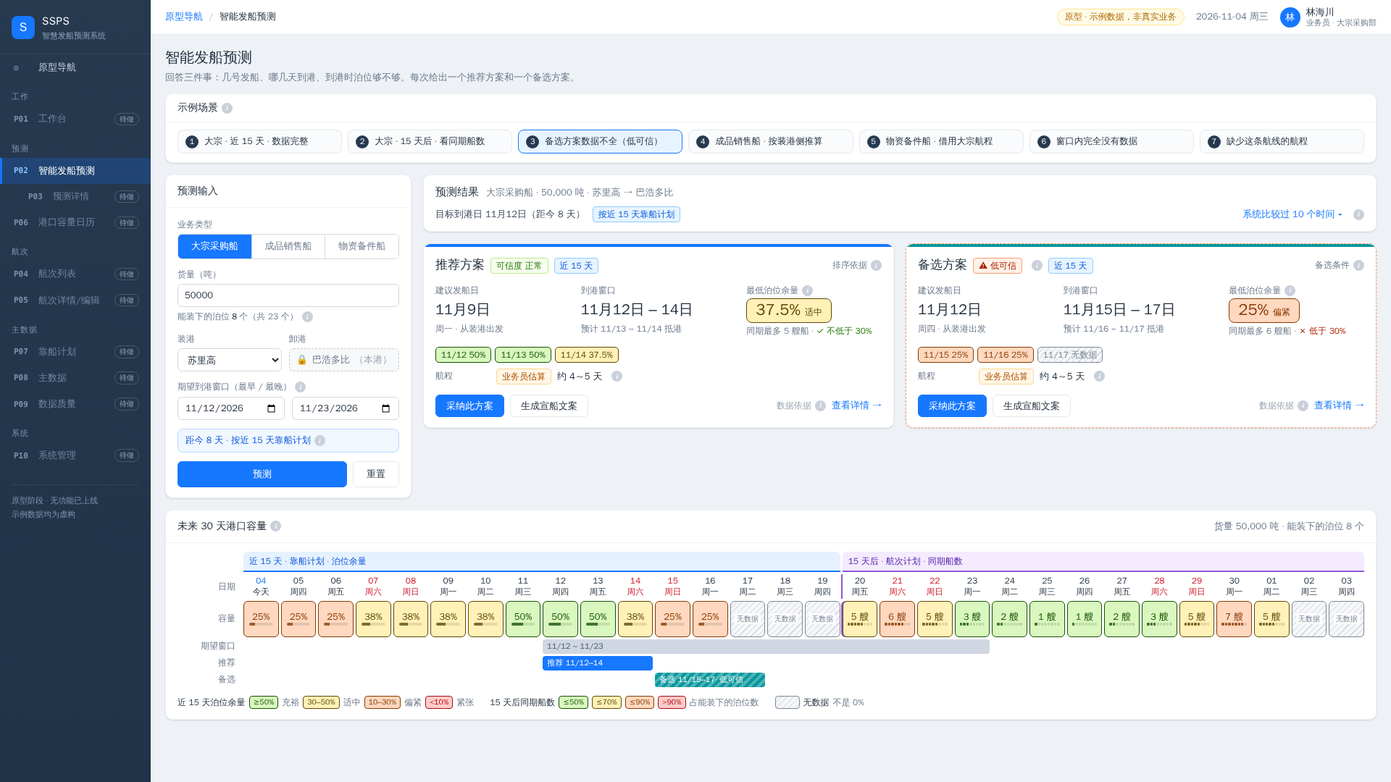
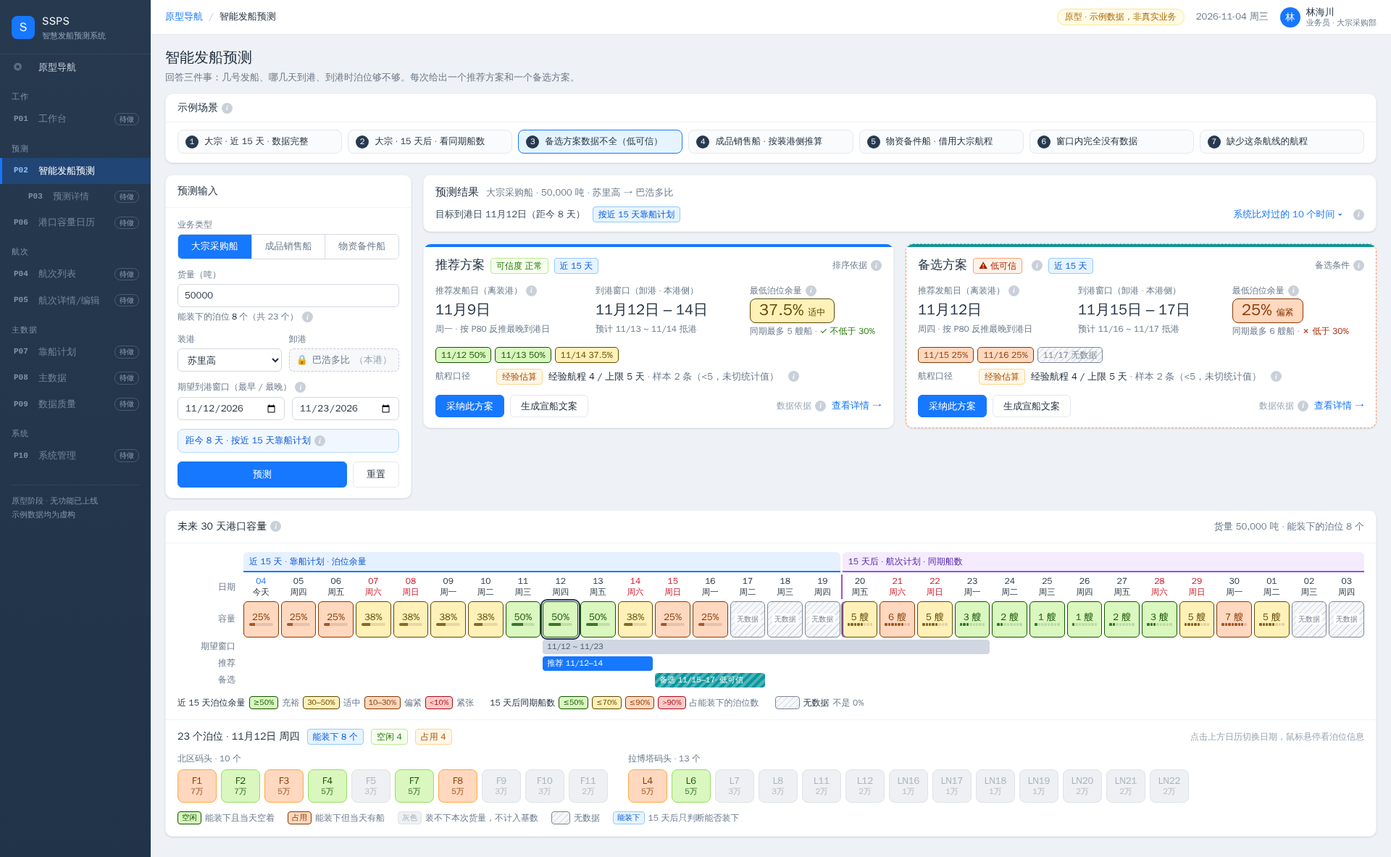
feat(prototype): P02 第一版迭代：恢复关键措辞、经验估算、23 泊位一览
- 「业务员估算」改为「经验估算」
- 恢复原措辞：推荐发船日（离装港）（旁加注释）、到港窗口（卸港 · 本港侧）、按 P80 反推最晚到港日、
  经验航程 / 上限 · 样本（<5，未切统计值）、系统比对过的 N 个时间及候选窗口标题
- 日历下方新增 23 个泊位一览：能装下本次货量的按空闲/占用着色，装不下的灰色，15 天后只判断能否装下，
  无数据为斜线；悬停显示泊位数据与当日占用船；点击日历切换日期
- 在 1920 / 1440 宽度下复查七个场景无折行溢出

Claude-Session: https://claude.ai/code/session_01S7EgPzREeeBA8rsxhMLUP6

diff --git a/prototype/P02-prediction.html b/prototype/P02-prediction.html
@@ -35,13 +35,14 @@
 .sum-m{display:flex;align-items:center;gap:10px;margin-top:8px;flex-wrap:wrap;color:#3b4a5c}
 .sum-m .sp{flex:1}
 .cands{display:flex;flex-wrap:wrap;gap:6px;margin-top:10px;padding-top:10px;border-top:1px dashed var(--line);font-size:12px}
+.cands .ct{width:100%;color:var(--muted);font-size:12.5px;white-space:nowrap}
 .cand{display:inline-flex;gap:5px;align-items:center;border:1px solid;border-radius:6px;padding:1px 8px;line-height:20px;white-space:nowrap}
 .cand i{font-style:normal;font-weight:600;color:#fff;background:var(--primary);border-radius:3px;padding:0 5px;font-size:11px}
 .cand i.b{background:#08979c}
 .cand.sp{border-style:dashed}
 .link{border:0;background:none;color:var(--primary);cursor:pointer;padding:0;font-size:13px;white-space:nowrap}
 /* 方案卡片 */
-.plans{display:grid;grid-template-columns:repeat(auto-fit,minmax(520px,1fr));gap:16px;margin-top:16px}
+.plans{display:grid;grid-template-columns:repeat(auto-fit,minmax(580px,1fr));gap:16px;margin-top:16px}
 .plan{position:relative;overflow:hidden;min-width:0}
 .plan:before{content:"";position:absolute;left:0;right:0;top:0;height:4px;background:var(--primary)}
 .plan.B:before{background:#08979c}
@@ -51,7 +52,7 @@
 .plan-h h3{margin:0;font-size:17px}
 .plan-h .sp{flex:1}
 .plan-h .muted{font-size:12px;display:flex;align-items:center}
-.mgrid{display:grid;grid-template-columns:1fr 1.15fr 1fr;gap:14px;padding:8px 16px 4px}
+.mgrid{display:grid;grid-template-columns:1.25fr 1.2fr 1.1fr;gap:14px;padding:8px 16px 4px}
 .m{min-width:0}
 .m .lb{font-size:12px;color:var(--muted);display:flex;align-items:center;white-space:nowrap}
 .m .v{font-size:20px;font-weight:700;margin:2px 0;white-space:nowrap}
@@ -61,7 +62,7 @@
 .days{display:flex;flex-wrap:wrap;gap:5px;padding:8px 16px 0}
 .day{border:1px solid;border-radius:5px;padding:0 7px;font-size:12px;line-height:20px;white-space:nowrap}
 .kvs{padding:8px 16px 0;display:grid;gap:6px;font-size:13px}
-.kvs .r{display:flex;gap:8px;align-items:center;white-space:nowrap}
+.kvs .r{display:flex;gap:4px 8px;align-items:center;white-space:nowrap;flex-wrap:wrap}
 .kvs .k{color:var(--muted);font-size:12px;width:76px;flex:none}
 .plan-f{display:flex;gap:8px;padding:14px 16px 14px;align-items:center;white-space:nowrap}
 .plan-f .sp{flex:1}
@@ -84,7 +85,8 @@
 .cal .dh b{display:block;font-size:12px}
 .cal .dh.today b{color:var(--primary)}.cal .dh.wkend{color:#cf1322}
 .cal .dh.split,.cal .cell.split{box-shadow:-2px 0 0 #9254de}
-.cell{height:50px;border:1px solid;border-radius:6px;display:flex;flex-direction:column;align-items:center;justify-content:center;gap:2px;font-size:12px;position:relative;cursor:default;white-space:nowrap;overflow:hidden}
+.cell{height:50px;border:1px solid;border-radius:6px;display:flex;flex-direction:column;align-items:center;justify-content:center;gap:2px;font-size:12px;position:relative;cursor:pointer;white-space:nowrap;overflow:hidden}
+.cell.sel{outline:2.5px solid #26394f;outline-offset:1px;z-index:3}
 .cell b{font-size:13px;line-height:1}
 .cell .bar{display:block;width:70%;height:4px;border-radius:3px;background:rgba(0,0,0,.1);overflow:hidden}
 .cell .bar i{display:block;height:100%;background:currentColor;opacity:.75}
@@ -98,7 +100,27 @@
 .legend{display:flex;flex-wrap:wrap;gap:6px 22px;align-items:center;padding:8px 16px 14px;font-size:12px;color:var(--muted)}
 .legend .g{display:flex;align-items:center;gap:5px;white-space:nowrap}
 .sw{display:inline-block;min-width:34px;padding:0 5px;text-align:center;border:1px solid;border-radius:4px;font-size:10.5px;line-height:16px;white-space:nowrap}
-@media(max-width:1700px){.cell.nd i{font-size:9px;padding:0 1px}.cell{font-size:11px}.mk .lt{display:none}}
+@media(max-width:1700px){.bt{width:50px}.cell.nd i{font-size:9px;padding:0 1px}.cell{font-size:11px}.mk .lt{display:none}}
+/* 泊位一览 */
+.bm{border-top:1px solid var(--line-2);padding:12px 16px 16px}
+.bm-h{display:flex;align-items:center;gap:10px;flex-wrap:wrap;margin-bottom:10px}
+.bm-h b{font-size:14px;white-space:nowrap}
+.bm-h .sp{flex:1}
+.bm-h .faint{font-size:12px;white-space:nowrap}
+.bm-g{display:flex;flex-wrap:wrap;gap:14px 28px}
+.bm-t{font-size:12px;color:var(--muted);margin-bottom:5px;white-space:nowrap}
+.bm-r{display:flex;gap:6px}
+.bt{width:54px;height:46px;border:1px solid;border-radius:8px;display:flex;flex-direction:column;align-items:center;justify-content:center;line-height:1.25;cursor:help;flex:none;white-space:nowrap}
+.bt b{font-size:13px}.bt small{font-size:11px;opacity:.85}
+.bt.free{background:var(--c1-bg);color:var(--c1-fg);border-color:var(--c1-bd)}
+.bt.occ{background:var(--c3-bg);color:var(--c3-fg);border-color:var(--c3-bd)}
+.bt.cap{background:#e6f4ff;color:#0958d9;border-color:#91caff}
+.bt.nd{background:var(--stripe);color:#5b6878;border-color:#c4cad3}
+.bt.off{background:#eef0f3;color:#a7b0bc;border-color:#dfe3e8}
+.bt:hover{outline:2px solid var(--primary);z-index:2}
+.bm-l{display:flex;flex-wrap:wrap;gap:6px 18px;margin-top:12px;font-size:12px;color:var(--muted)}
+.bm-l .g{display:flex;align-items:center;gap:5px;white-space:nowrap}
+.bm-l .sw{min-width:26px}
 /* 弹窗 */
 .annc{background:#f7f9fc;border:1px solid var(--line);border-radius:8px;padding:12px 14px;line-height:2;font-size:13.5px}
 .annc .v{background:#e6f4ff;color:#0958d9;border-radius:3px;padding:0 3px;font-weight:600}
@@ -150,6 +172,7 @@
         <div class="card-h"><h2 class="nw">未来 30 天港口容量<span class="i" data-tip="泊位余量率是唯一的容量指标：空闲泊位 ÷ 能装下该货量的泊位总数，越高越宽松。\n30% 是备选方案的底线；其余色阶分界为原型暂定值。\n灰色斜线表示暂无数据，不是 0%。">i</span></h2><span class="muted nw" id="calMeta"></span></div>
         <div class="cal" id="cal"></div>
         <div class="legend" id="legend"></div>
+        <div class="bm" id="bm"></div>
       </section>
     </main>
   </div>
@@ -180,7 +203,7 @@
   const M = window.MOCK, E = window.ENGINE, $ = (id) => document.getElementById(id);
   const BIZ = ['大宗采购船', '成品销售船', '物资备件船'], LOCAL = 'BAHODOPI';
   const PRESETS = [
-    { label: '大宗 · 近 15 天 · 数据完整', tip: '5 万吨，业务员估算航程，推荐和备选都数据完整。',
+    { label: '大宗 · 近 15 天 · 数据完整', tip: '5 万吨，航程为经验估算，推荐和备选都数据完整。',
       v: { biz: '大宗采购船', tons: 50000, load: 'SURIGAO', disch: LOCAL, ws: '2026-11-08', we: '2026-11-18' } },
     { label: '大宗 · 15 天后 · 看同期船数', tip: '5 万吨，历史统计航程，只按同期船数判断，不算泊位余量。',
       v: { biz: '大宗采购船', tons: 50000, load: 'TAGANITO', disch: LOCAL, ws: '2026-11-24', we: '2026-12-02' } },
@@ -195,7 +218,7 @@
     { label: '缺少这条航线的航程', tip: '泗水 → 巴浩多比 还没有维护航程。',
       v: { biz: '大宗采购船', tons: 30000, load: 'SURABAYA', disch: LOCAL, ws: '2026-11-10', we: '2026-11-18' } },
   ];
-  let cur = 0, last = null, showCands = false;
+  let cur = 0, last = null, showCands = false, selDay = null, curTons = 50000;
 
   // ---------- 小工具 ----------
   const fmt = (n) => Number(n).toLocaleString('en-US');
@@ -278,18 +301,20 @@
   function routeRows(res) {
     const i = res.input, r = res.run.rule;
     if (i.biz === '成品销售船') return '';
-    if (!r) return '<div class="r"><span class="k">航程</span><span class="tag gray">暂无</span><span class="muted">没有维护这条航线的航程</span></div>';
-    const tag = r.basis === '经验值' ? '<span class="tag amber">业务员估算</span>' : '<span class="tag blue">历史统计 ' + r.samples + ' 个航次</span>';
-    const tipTxt = r.basis === '经验值' ? '这条航线实际航次只有 ' + r.samples + ' 个，不足 5 个，暂用业务员填写的估算值（常见 ' + r.exp + ' 天，最长 ' + r.expMax + ' 天）。\\n累计到 5 个航次后自动改用历史统计。'
-                                        : '用这条航线 ' + r.samples + ' 个历史航次统计：一半的船不超过 ' + r.p50 + ' 天，八成的船不超过 ' + r.p80 + ' 天。';
-    return '<div class="r"><span class="k">航程</span>' + tag + '<span>约 <b>' + Math.ceil(r.effP50) + '～' + Math.ceil(r.effP80) + '</b> 天</span>' +
-      (res.run.borrowed ? '<span class="tag gray">借用大宗航线</span>' : '') + ic(tipTxt) + '</div>';
+    if (!r) return '<div class="r"><span class="k">航程口径</span><span class="tag gray">暂无</span><span class="muted">没有维护这条航线的航程</span></div>';
+    const emp = r.basis === '经验值';
+    const tag = emp ? '<span class="tag amber">经验估算</span>' : '<span class="tag blue">历史统计</span>';
+    const detail = emp ? '经验航程 <b>' + r.exp + '</b> / 上限 <b>' + r.expMax + '</b> 天 <span class="muted">· 样本 ' + r.samples + ' 条（&lt;5，未切统计值）</span>'
+                       : 'P50 <b>' + r.p50 + '</b> / P80 <b>' + r.p80 + '</b> 天 <span class="muted">· 样本 ' + r.samples + ' 条</span>';
+    const tipTxt = emp ? '经验航程是常见天数，上限是最长大概多久，分别相当于统计里的 P50、P80。\\n这条航线实际航次只有 ' + r.samples + ' 条，不足 5 条，暂用经验估算；累计到 5 条后自动改用历史统计。'
+                       : 'P50：一半的船不超过这个天数；P80：八成的船不超过这个天数。统计自这条航线的 ' + r.samples + ' 条历史航次。';
+    return '<div class="r"><span class="k">航程口径</span>' + tag + (res.run.borrowed ? '<span class="tag gray">借用大宗航线</span>' : '') + '<span>' + detail + '</span>' + ic(tipTxt) + '</div>';
   }
   function basisTip(res) {
     const r = res.run, P = res.pool, x = res.excluded, rule = r.rule, L = [];
     L.push(r.mode === 'cmr' ? '靠船计划：' + mdCn(E.dn(M.batch.planDate)) + '更新，覆盖到 ' + mdCn(E.planCoverTo) : '航次计划：覆盖到 ' + mdCn(E.voyHorizon));
     L.push('能装下 ' + fmt(res.input.tons) + ' 吨的泊位：' + P.n + ' / ' + M.berths.length + ' 个');
-    if (rule) L.push(res.input.biz === '成品销售船' ? '航程：业务员估算（仅用于推算到客户港时间）' : '航程：' + (rule.basis === '经验值' ? '业务员估算' : '历史统计 ' + rule.samples + ' 个航次'));
+    if (rule) L.push(res.input.biz === '成品销售船' ? '航程：经验估算（仅用于推算到客户港时间）' : '航程：' + (rule.basis === '经验值' ? '经验估算' : '历史统计 ' + rule.samples + ' 个航次'));
     L.push('不计入：' + (r.mode === 'cmr' ? '非德信泊位的 ' + x.offPool + ' 条靠船记录' : '已取消航次 ' + x.cancelled + ' 条'));
     return L.join('\\n');
   }
@@ -305,10 +330,10 @@
     const pathTag = p.mode === 'cmr' ? '<span class="tag blue">近 15 天</span>' : '<span class="tag" style="background:#f9f0ff;color:#531dab;border-color:#d3adf7">15 天后</span>';
     let m1, m2, m3;
     if (!prod) {
-      m1 = '<div class="m"><div class="lb">建议发船日</div><div class="v">' + (p.depart != null ? mdCn(p.depart) : '—') + '</div><div class="sub">' + (p.depart != null ? wk(p.depart) + ' · 从装港出发' : '缺少航程，无法推算') + '</div></div>';
-      m2 = '<div class="m"><div class="lb">到港窗口</div><div class="v">' + mdCn(p.c.s) + ' – ' + dCn(p.c.e) + '</div><div class="sub">' + (p.etaFrom != null ? '预计 ' + E.md(p.etaFrom) + ' ~ ' + E.md(p.etaTo) + ' 抵港' : '共 ' + p.c.len + ' 天') + '</div></div>';
+      m1 = '<div class="m"><div class="lb">推荐发船日（离装港）' + ic('发船日就是船从装港出发的日期。系统用 P80（八成的船不超过的航程天数）从到港窗口的最后一天往前推，这样船大概率不会晚于窗口到港。') + '</div><div class="v">' + (p.depart != null ? mdCn(p.depart) : '—') + '</div><div class="sub">' + (p.depart != null ? wk(p.depart) + ' · 按 P80 反推最晚到港日' : '缺少航程，无法推算') + '</div></div>';
+      m2 = '<div class="m"><div class="lb">到港窗口（卸港 · 本港侧）</div><div class="v">' + mdCn(p.c.s) + ' – ' + dCn(p.c.e) + '</div><div class="sub">' + (p.etaFrom != null ? '预计 ' + E.md(p.etaFrom) + ' ~ ' + E.md(p.etaTo) + ' 抵港' : '共 ' + p.c.len + ' 天') + '</div></div>';
     } else {
-      m1 = '<div class="m"><div class="lb">建议装船窗口</div><div class="v">' + mdCn(p.c.s) + ' – ' + dCn(p.c.e) + '</div><div class="sub">' + wk(p.c.s) + ' 起 · 共 ' + p.c.len + ' 天</div></div>';
+      m1 = '<div class="m"><div class="lb">建议装船窗口（装港 · 本港侧）</div><div class="v">' + mdCn(p.c.s) + ' – ' + dCn(p.c.e) + '</div><div class="sub">' + wk(p.c.s) + ' 起 · 共 ' + p.c.len + ' 天</div></div>';
       m2 = '<div class="m"><div class="lb">最晚装船日</div><div class="v">' + mdCn(p.deadline) + '</div><div class="sub">窗口后还剩 ' + p.slack + ' 天余量</div></div>';
     }
     if (p.mode === 'cmr') {
@@ -325,7 +350,7 @@
     let kv = routeRows(res);
     if (prod) {
       const r = res.run.rule;
-      kv = '<div class="r"><span class="k">到客户港</span>' + (p.custEta ? '<b>' + E.md(p.custEta[0]) + ' – ' + E.md(p.custEta[1]) + '</b><span class="tag gray">仅供参考</span>' + ic('按业务员估算的航程（约 ' + Math.ceil(r.effP50) + '～' + Math.ceil(r.effP80) + ' 天）从装港反向推算。') : '<span class="muted">暂无这条航线的航程</span>') + '</div>';
+      kv = '<div class="r"><span class="k">到客户港</span>' + (p.custEta ? '<b>' + E.md(p.custEta[0]) + ' – ' + E.md(p.custEta[1]) + '</b><span class="tag gray">仅供参考</span>' + ic('按经验估算的航程（约 ' + Math.ceil(r.effP50) + '～' + Math.ceil(r.effP80) + ' 天）从装港反向推算。') : '<span class="muted">暂无这条航线的航程</span>') + '</div>';
     }
     return '<div class="' + cls + '" data-plan="' + p.label + '">' +
       '<div class="plan-h"><h3>' + name + '</h3>' + trust + pathTag + '<span class="sp"></span><span class="muted">' + (p.label === 'A' ? '排序依据' : '备选条件') + ic(p.label === 'A' ? (p.mode === 'cmr' ? '按最低泊位余量从高到低排序，同分取更早的时间，不使用综合评分。' : '按同期最多船数从少到多排序，同分取更早的时间，不使用综合评分。') : '备选方案要求余量不低于 30%，并且与推荐方案的时间不重叠；没有完整数据的时间可选时，才会从数据不全的时间里补位。') + '</span></div>' +
@@ -352,9 +377,9 @@
     let h = '<div class="card sum"><div class="sum-t"><h2>预测结果</h2><span>' + res.input.biz + ' · ' + fmt(res.input.tons) + ' 吨 · ' + zh(res.input.load) + ' → ' + zh(res.input.disch) + '</span></div>' +
       '<div class="sum-m"><span class="nw">目标到港日 ' + mdCn(r.target) + '（距今 ' + r.dist + ' 天）</span>' +
       '<span class="tag ' + (le ? 'blue' : '') + ' nw"' + (le ? '' : ' style="background:#f9f0ff;color:#531dab;border-color:#d3adf7"') + '>' + (le ? '按近 15 天靠船计划' : '按 15 天后航次计划') + '</span>' +
-      '<span class="sp"></span><button class="link" id="togCand">系统比较过 ' + (res.candidates || []).length + ' 个时间 ' + (showCands ? '▴' : '▾') + '</button>' +
+      '<span class="sp"></span><button class="link" id="togCand">系统比对过的 ' + (res.candidates || []).length + ' 个时间 ' + (showCands ? '▴' : '▾') + '</button>' +
       ic('把期望窗口切成每 3 天一档、每次挪一天，逐档计算后挑出推荐和备选。\\n框里是该档的' + (le ? '最低泊位余量' : '同期最多船数') + '；带星号表示窗口里有没数据的日子，只按有数据的天数算。') + '</div>' +
-      (showCands ? '<div class="cands">' + cands + (res.excluded.pastDepart ? '<span class="muted nw">另有 ' + res.excluded.pastDepart + ' 个时间的发船日已早于今天，已排除</span>' : '') + '</div>' : '') + '</div>';
+      (showCands ? '<div class="cands"><div class="ct">候选窗口（3 天一档，按' + (le ? '最低泊位余量从高到低' : '同期最多船数从少到多') + '，不使用综合评分）：</div>' + cands + (res.excluded.pastDepart ? '<span class="muted nw">另有 ' + res.excluded.pastDepart + ' 个时间的发船日已早于今天，已排除</span>' : '') + '</div>' : '') + '</div>';
     if (res.noCandidate) {
       h += '<div class="card banner"><div class="ico"></div><div><h3>窗口内没有可以推荐的时间</h3><p>' + (le ? '靠船计划只到 ' + mdCn(E.planCoverTo) : '航次计划只到 ' + mdCn(E.voyHorizon)) + '，这个窗口全部没有数据（灰色斜线，不是 0%）。系统不会因为没有数据而改用另一条计算路径，建议把窗口提前，或等下一期靠船计划。</p></div></div>';
     } else h += '<div class="plans">' + planCard(res.plans[0], res) + planCard(res.plans[1] || null, res) + '</div>';
@@ -373,7 +398,7 @@
       '<div class="band gt" style="grid-row:1;grid-column:' + (2 + le) + ' / span ' + (30 - le) + '">15 天后 · 航次计划 · 同期船数</div>';
     h += '<div class="lab" style="grid-row:2;grid-column:1">日期</div>' + days.map((d) => '<div style="grid-row:2" class="dh' + (d.i === 0 ? ' today' : '') + ([0, 6].includes(new Date(d.d * 86400000).getUTCDay()) ? ' wkend' : '') + (d.i === le ? ' split' : '') + '"><b>' + E.md(d.d).slice(3) + '</b>' + (d.i === 0 ? '今天' : wk(d.d)) + '</div>').join('');
     h += '<div class="lab" style="grid-row:3;grid-column:1">容量</div>' + days.map((d) => {
-      const sp = d.i === le ? ' split' : '', gr = 'style="grid-row:3" ';
+      const sp = (d.i === le ? ' split' : '') + (d.d === selDay ? ' sel' : ''), gr = 'style="grid-row:3" ';
       if (!P.n || d.state !== 'ok') return '<div ' + gr + 'class="cell nd' + sp + '" data-i="' + d.i + '"><i>无数据</i></div>';
       if (d.mode === 'cmr') return '<div ' + gr + 'class="cell ' + cmrCls(d.cmr) + sp + '" data-i="' + d.i + '"><b>' + Math.round(d.cmr * 100) + '%</b><span class="bar"><i style="width:' + d.cmr * 100 + '%"></i></span></div>';
       const f = Math.min(8, Math.round(d.count / d.n * 8)), dots = Array.from({ length: 8 }, (_, k) => '<i class="' + (k < f ? 'on' : '') + '"></i>').join('');
@@ -399,11 +424,47 @@
         tb.innerHTML = t; tb.style.display = 'block'; tb.style.left = Math.min(e.clientX + 14, innerWidth - 340) + 'px'; tb.style.top = (e.clientY + 16) + 'px';
       };
       c.onmouseleave = () => { tb.style.display = 'none'; };
+      c.onclick = () => { selDay = d.d; renderCalendar(res, tons); };
     });
+    renderBerths(tons);
     $('legend').innerHTML =
       '<div class="g"><b style="color:var(--text)">近 15 天泊位余量</b><span class="sw c1">≥50%</span>充裕<span class="sw c2">30–50%</span>适中<span class="sw c3">10–30%</span>偏紧<span class="sw c4">&lt;10%</span>紧张</div>' +
       '<div class="g"><b style="color:var(--text)">15 天后同期船数</b><span class="sw c1">≤50%</span><span class="sw c2">≤70%</span><span class="sw c3">≤90%</span><span class="sw c4">&gt;90%</span>占能装下的泊位数</div>' +
       '<div class="g"><span class="sw nd">&nbsp;&nbsp;</span><b style="color:var(--text)">无数据</b>不是 0%</div>';
+  }
+
+  // ---------- 23 个泊位一览 ----------
+  const esc = (t) => String(t).replace(/&/g, '&amp;').replace(/"/g, '&quot;');
+  const wan = (n) => (n / 10000) + ' 万吨';
+  function renderBerths(tons) {
+    const el = $('bm'), d = selDay; if (d == null) { el.innerHTML = ''; return; }
+    const mode = E.modeOf(d), nodata = mode === 'cmr' && d > E.planCoverTo;
+    const items = M.berths.map((b) => {
+      const capable = b.status === '启用' && tons > 0 && b.capacity >= tons;
+      const row = mode === 'cmr' && !nodata ? E.rows.find((r) => r.inPool && r.berth === b.code && r.s <= d && d <= r.e) : null;
+      const state = !capable ? 'off' : mode === 'density' ? 'cap' : nodata ? 'nd' : row ? 'occ' : 'free';
+      const L = ['<b>' + b.code + ' · ' + b.terminal + '</b>', '容量 ' + wan(b.capacity) + ' · ' + b.category + ' · ' + b.status, '依据：' + b.basis + (b.note ? '（' + b.note + '）' : ''),
+        tons > 0 ? '本次货量 ' + fmt(tons) + ' 吨：' + (capable ? '能装下，计入余量基数' : '装不下，不计入余量基数') : '尚未填写货量'];
+      const dl = mdCn(d);
+      if (mode === 'density') L.push(dl + '：15 天后没有逐泊位数据，只能判断能否装下');
+      else if (nodata) L.push(dl + '：靠船计划暂无数据，无法判断占用');
+      else if (row) L.push(dl + ' 占用：' + row.vessel, row.cargo + ' ' + fmt(row.tons) + ' 吨', '预计靠泊 ' + E.md(row.s) + ' · 在港至 ' + E.md(row.e));
+      else L.push(dl + '：空闲');
+      return { b, state, tip: L.join('\n') };
+    });
+    const cnt = (st) => items.filter((x) => x.state === st).length, n = items.filter((x) => x.state !== 'off').length;
+    let chips;
+    if (!n) chips = '<span class="tag red">没有能装下的泊位</span>';
+    else if (mode === 'density') chips = '<span class="tag blue">能装下 ' + n + ' 个</span><span class="tag gray">15 天后无逐泊位数据</span>';
+    else if (nodata) chips = '<span class="tag blue">能装下 ' + n + ' 个</span><span class="tag nodata">暂无数据</span>';
+    else chips = '<span class="tag blue">能装下 ' + n + ' 个</span><span class="tag green">空闲 ' + cnt('free') + '</span><span class="tag amber">占用 ' + cnt('occ') + '</span>';
+    const grp = (name) => { const g = items.filter((x) => x.b.terminal === name);
+      return '<div><div class="bm-t">' + name + ' · ' + g.length + ' 个</div><div class="bm-r">' + g.map((x) => '<div class="bt ' + x.state + '" data-tip="' + esc(x.tip) + '"><b>' + x.b.code + '</b><small>' + (x.b.capacity / 10000) + '万</small></div>').join('') + '</div></div>'; };
+    el.innerHTML = '<div class="bm-h"><b>' + M.berths.length + ' 个泊位 · ' + mdCn(d) + ' ' + wk(d) + '</b>' + chips + '<span class="sp"></span><span class="faint">点击上方日历切换日期，鼠标悬停看泊位信息</span></div>' +
+      '<div class="bm-g">' + grp('北区码头') + grp('拉博塔码头') + '</div>' +
+      '<div class="bm-l"><span class="g"><span class="sw c1">空闲</span>能装下且当天空着</span><span class="g"><span class="sw c3">占用</span>能装下但当天有船</span>' +
+      '<span class="g"><span class="sw" style="background:#eef0f3;color:#a7b0bc;border-color:#dfe3e8">灰色</span>装不下本次货量，不计入基数</span>' +
+      '<span class="g"><span class="sw nd">&nbsp;&nbsp;</span>无数据</span><span class="g"><span class="sw" style="background:#e6f4ff;color:#0958d9;border-color:#91caff">能装下</span>15 天后只判断能否装下</span></div>';
   }
 
   // ---------- 采纳 / 宣船文案 ----------
@@ -428,7 +489,7 @@
   $('adoptOk').onclick = () => { $('mAdopt').classList.remove('on'); toast('已采纳（原型演示，未写入）'); };
 
   // ---------- 运行 ----------
-  function run() { const f = readForm(); last = E.predict(f); renderResult(last); renderCalendar(last, f.tons); }
+  function run() { const f = readForm(); last = E.predict(f); curTons = f.tons; selDay = (last.plans && last.plans[0]) ? last.plans[0].c.s : E.TODAY; renderResult(last); renderCalendar(last, f.tons); }
   function drawPresets() {
     $('presets').innerHTML = PRESETS.map((p, i) => '<button class="preset' + (i === cur ? ' on' : '') + '" data-i="' + i + '" data-tip="' + p.tip + '"><span class="no">' + (i + 1) + '</span><b>' + p.label + '</b></button>').join('');
     $('presets').querySelectorAll('.preset').forEach((b) => b.onclick = () => { cur = +b.dataset.i; drawPresets(); writeForm(PRESETS[cur].v); run(); });

diff --git a/prototype/engine.js b/prototype/engine.js
@@ -188,7 +188,7 @@
     }
     if (plan.mode === 'cmr') out.push(s('窗口内最低泊位余量 '), v(pct(plan.c.metric)), s('（能装下的泊位 '), v(P.n + ' 个'), s('）；'));
     else out.push(s('窗口内同期最多 '), v(plan.c.metric + ' 艘'), s(' 船（能装下的泊位 '), v(P.n + ' 个'), s('）；'));
-    if (rule && i.biz !== '成品销售船') out.push(s('航程按' + (rule.basis === '经验值' ? '业务员估算' : '历史统计') + ' '), v(Math.ceil(rule.effP50) + '～' + Math.ceil(rule.effP80) + ' 天'), s('；'));
+    if (rule && i.biz !== '成品销售船') out.push(s('航程按' + (rule.basis === '经验值' ? '经验估算' : '历史统计') + ' '), v(Math.ceil(rule.effP50) + '～' + Math.ceil(rule.effP80) + ' 天'), s('；'));
     if (plan.trust === '低可信') out.push(s('本方案数据不完整，请谨慎采用；'));
     if (i.biz === '成品销售船' && plan.custEta) out.push(s('到客户港预计 '), v(md(plan.custEta[0]) + ' ~ ' + md(plan.custEta[1])), s('（仅供参考）；'));
     out.push(s('以上数值由规则计算得出，文案未改写。'));

diff --git a/prototype/index.html b/prototype/index.html
@@ -39,7 +39,7 @@ a.card:active{background:#f5faff}
 
   <a class="card" href="P02-prediction.html">
     <div class="row"><b>P02 智能发船预测（第一版 · 已优化）</b><span class="tag">待评审</span></div>
-    <div class="sub">表单输入，推荐 + 备选方案 + 30 天容量日历 + 7 个示例场景；术语全中文，解释收进悬停浮窗，桌面版。</div>
+    <div class="sub">表单输入，推荐 + 备选方案 + 30 天容量日历 + 7 个示例场景；术语全中文，解释收进悬停浮窗；日历下方有 23 个泊位一览，桌面版。</div>
   </a>
   <a class="card" href="P02-prediction-v2.html" style="border-color:#d9dee5">
     <div class="row"><b>P02 智能发船预测 · v2 简化草图</b><span class="tag g">备选草图</span></div>
